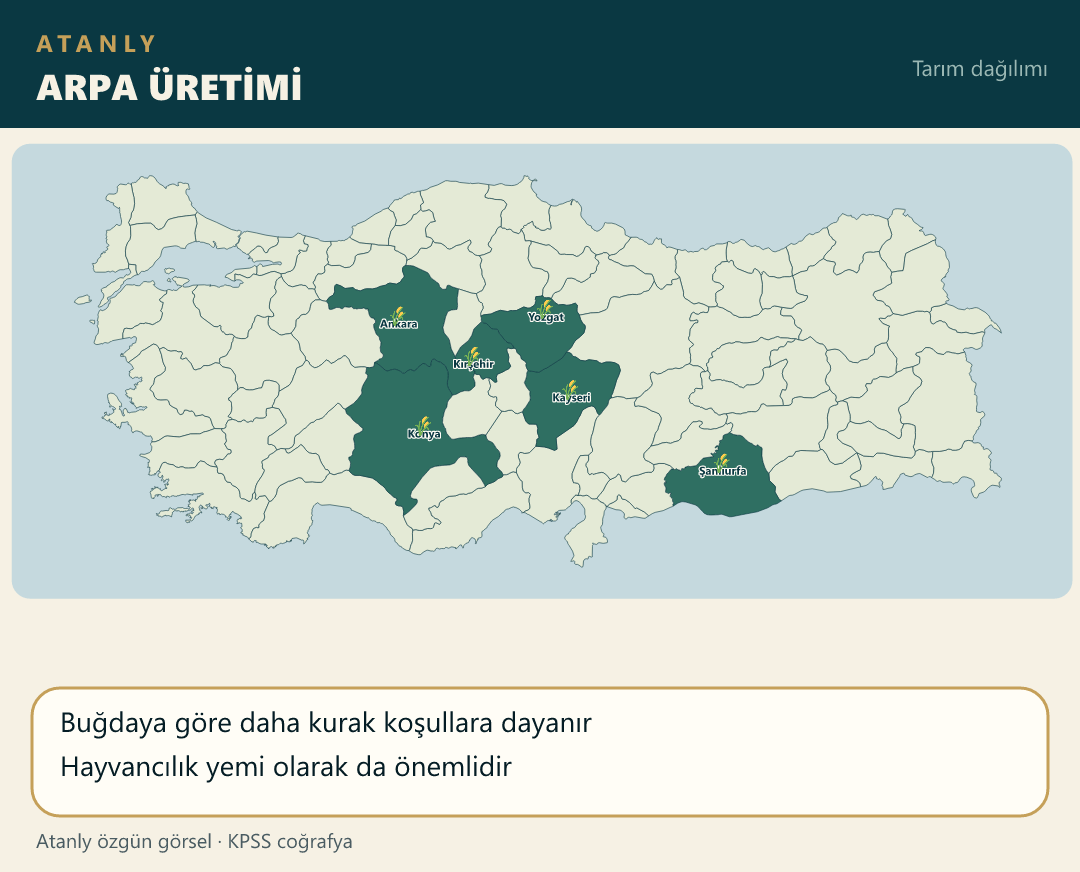
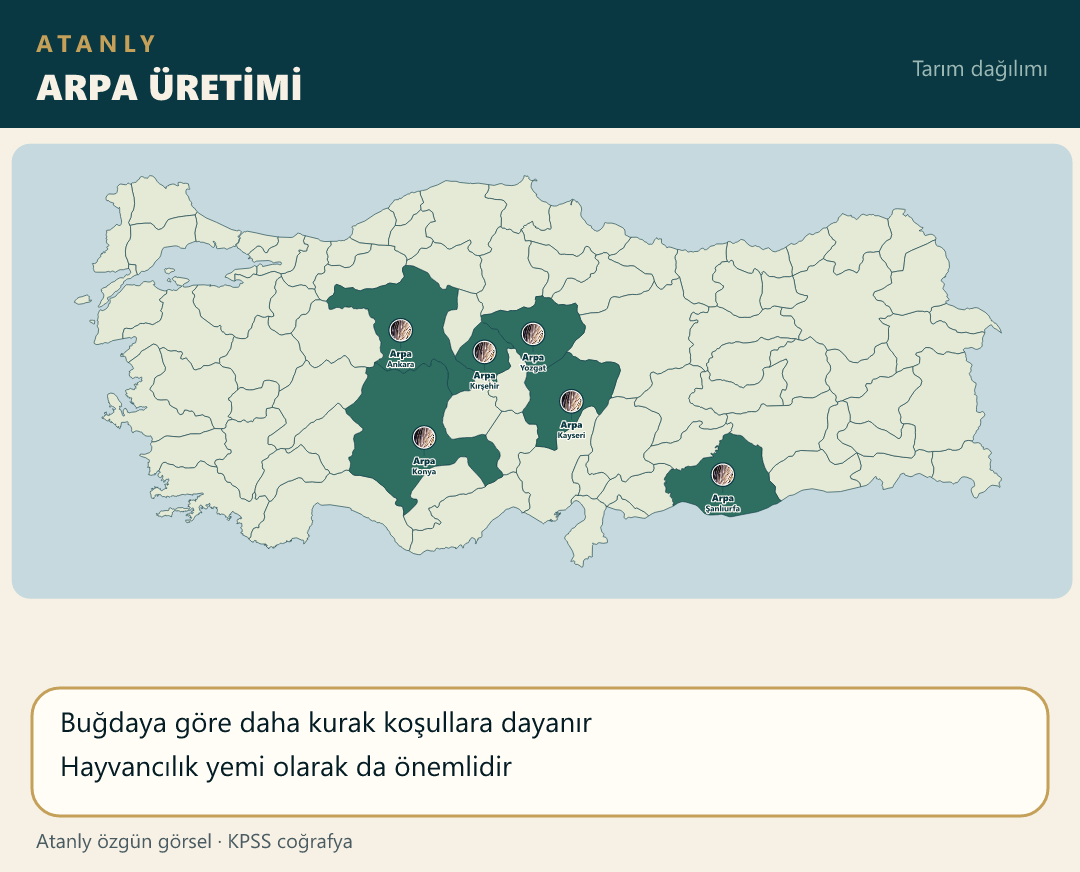
Place the barley photo on each producing province centroid.

diff --git a/scripts/build-atanly-maps.js b/scripts/build-atanly-maps.js
@@ -332,7 +332,7 @@ function topicIcon(file) {
     var k = norm(String(file || "").replace(/\.(png|jpg)$/i, ""));
     var T = {
         gul: "rose", elma: "apple", bugday: "wheat", pamuk: "cotton", zeytin: "olive",
-        uzum: "grapes", misir: "corn", patates: "potato", arpa: "wheat", sekerpancar: "beet",
+        uzum: "grapes", misir: "corn", patates: "potato", arpa: "arpa", sekerpancar: "beet",
         hashas: "poppy", incir: "fig", kayisi: "apricot", muz: "banana", anason: "anason",
         aspir: "flower", susam: "seed", tutun: "leaf", yerfistik: "peanut", antepfistik: "antepfistik",
         kirmizimercimek: "lentil", turunc: "citrus", kanola: "canola", pirinc: "rice",
@@ -437,7 +437,7 @@ function main() {
         { file: "üzüm.png", title: "ÜZÜM ÜRETİMİ", iller: ["Manisa", "Denizli", "İzmir", "Nevşehir", "Elazığ", "Gaziantep", "Tekirdağ"], facts: ["Ege bağcılığın merkezidir", "Kapadokya ve Güneydoğu’da da yetişir"] },
         { file: "mısır.png", title: "MISIR ÜRETİMİ", iller: ["Adana", "Şanlıurfa", "Mardin", "Sakarya", "Mersin", "Konya"], facts: ["Hem tahıl hem yağ bitkisi grubunda sayılır", "Çukurova ve GAP sulama alanları yoğundur"] },
         { file: "patates.png", title: "PATATES ÜRETİMİ", iller: ["Niğde", "Nevşehir", "Afyon", "Bolu", "Erzurum", "İzmir"], facts: ["Serin ve yüksek yerlerde verim artar", "Niğde–Nevşehir öne çıkar"] },
-        { file: "arpa.png", title: "ARPA ÜRETİMİ", iller: ["Konya", "Ankara", "Şanlıurfa", "Kayseri", "Yozgat", "Kırşehir"], facts: ["Buğdaya göre daha kurak koşullara dayanır", "Hayvancılık yemi olarak da önemlidir"] },
+        { file: "arpa.png", title: "ARPA ÜRETİMİ", urun: "Arpa", iller: ["Konya", "Ankara", "Şanlıurfa", "Kayseri", "Yozgat", "Kırşehir"], facts: ["Buğdaya göre daha kurak koşullara dayanır", "Hayvancılık yemi olarak da önemlidir"] },
         { file: "seker_pancar.png", title: "ŞEKER PANCARI", iller: ["Konya", "Eskişehir", "Aksaray", "Yozgat", "Tokat", "Erzurum", "Kayseri"], facts: ["Ilıman-karasal iklim ve sulama", "Şeker fabrikaları çevresinde yoğunlaşır"] },
         { file: "hashas.png", title: "HAŞHAŞ ÜRETİMİ", iller: ["Afyon", "Denizli", "Kütahya", "Burdur", "Isparta", "Uşak"], facts: ["Devlet kontrolünde üretilir", "Afyonkarahisar adıyla özdeşleşir"] },
         { file: "incir.png", title: "İNCİR ÜRETİMİ", iller: ["Aydın", "İzmir", "Muğla", "Bursa", "Gaziantep"], facts: ["Aydın birinci sıradadır", "Ege’nin kurutmalık inciri meşhurdur"] },

diff --git a/notlar/cografya-19-not.js b/notlar/cografya-19-not.js
@@ -2,7 +2,7 @@
 (function () {
     function harita(src, alt) {
         return '<div class="mt-4 overflow-hidden rounded-xl border border-blue-200 dark:border-blue-700/50 bg-white dark:bg-slate-800 p-2">' +
-            '<img src="./src/img/' + src + '?v=14" alt="' + alt + ' Haritası" class="w-full h-auto rounded-lg object-contain" loading="lazy">' +
+            '<img src="./src/img/' + src + '?v=15" alt="' + alt + ' Haritası" class="w-full h-auto rounded-lg object-contain" loading="lazy">' +
             "</div>";
     }
 

diff --git a/index.html b/index.html
@@ -117,7 +117,7 @@
     <script src="notlar/cografya-16-not.js?v=3"></script>
     <script src="notlar/cografya-17-not.js?v=3"></script>
     <script src="notlar/cografya-18-not.js?v=9"></script>
-    <script src="notlar/cografya-19-not.js?v=10"></script>
+    <script src="notlar/cografya-19-not.js?v=11"></script>
     <script src="notlar/cografya-20-not.js?v=1"></script>
     <script src="notlar/cografya-21-not.js?v=4"></script>
     <script src="notlar/vatandas-1-not.js?v=3"></script>
